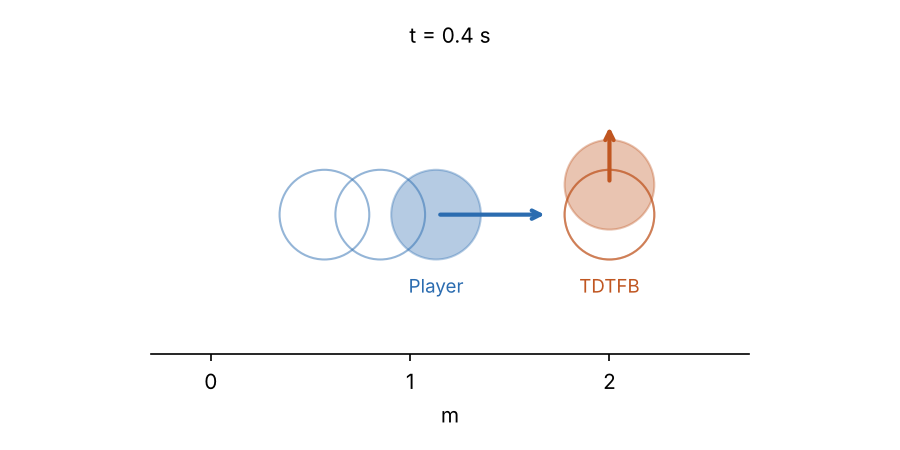
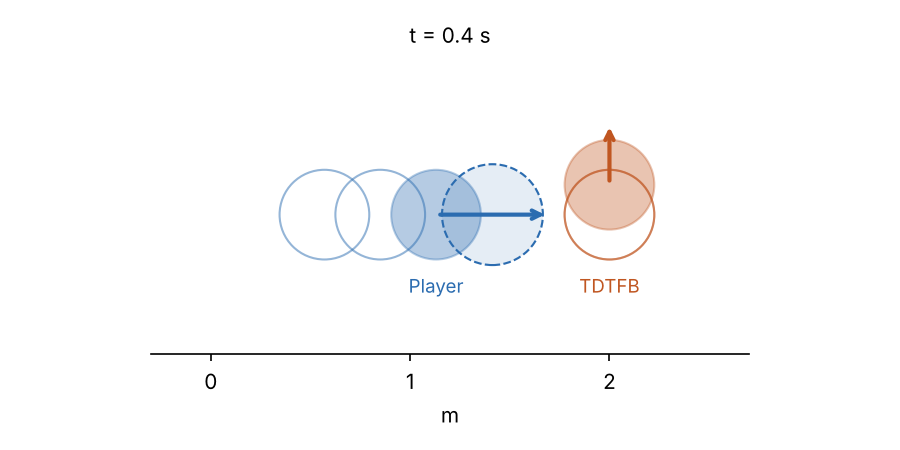
Combat frame: draw player's reachable region for next step
Claude-Session: https://claude.ai/code/session_01RGpbufgYSJT2n4v1xECmZw

Changed region(s): [[0.4978, 0.3422, 0.6222, 0.5911]]

diff --git a/docs/combat/frames/render_frame.py b/docs/combat/frames/render_frame.py
@@ -25,4 +25,14 @@ ax.set_aspect("equal"); ax.set_xlim(-.3, 2.7); ax.set_ylim(-.7, .8)
 ax.set_xticks([0, 1, 2]); ax.set_yticks([])
 ax.set_xlabel("m"); ax.set_title(f"t = {t} s", fontsize=10)
 for s in ("top", "right", "left"): ax.spines[s].set_visible(False)
+# Reachable region for the player over the next step (DT): release up to
+# STORED joules as a velocity change of magnitude sqrt(2E/m) in any direction.
+import math
+DT, STORED, M = 0.1, 240, 75
+px, py, pvx, pvy = 1.13, 0.00, 2.83, 0.00
+dv = math.sqrt(2 * STORED / M)
+ax.add_patch(Circle((px + pvx * DT, py + pvy * DT), dv * DT,
+                    color="#2b6cb0", alpha=.12, ls="--", lw=1))
+ax.add_patch(Circle((px + pvx * DT, py + pvy * DT), dv * DT,
+                    fill=False, color="#2b6cb0", ls="--", lw=1))
 fig.tight_layout(); fig.savefig(sys.argv[1] if len(sys.argv) > 1 else f"docs/combat/frames/t{t}.png")
